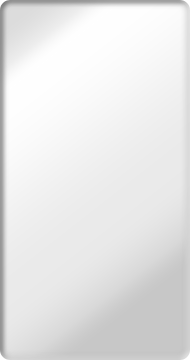
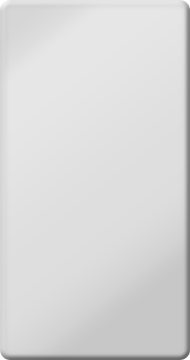
improved pedal knob ui

Changed region(s): [[0.0, 0.0, 1.0, 1.0]]

diff --git a/src/pedals/ui.rs b/src/pedals/ui.rs
@@ -56,16 +56,27 @@ pub fn pedal_knob(ui: &mut egui::Ui, name: &str, parameter: &PedalParameter, at:
         .layout(egui::Layout::top_down(egui::Align::Center))
         .sense(egui::Sense::click_and_drag()),
     |ui| {
-            let knob_im = ui.add(egui::Image::new(egui::include_image!("images/pedal_knob.png"))
-                .rotate(knob_rotate, Vec2::splat(0.5))
-                .max_width(size_px)
-                .sense(egui::Sense::click_and_drag())
+            let mut main_knob_im_ui = ui.new_child(
+                egui::UiBuilder::new()
+                    .max_rect(ui.available_rect_before_wrap())
+                    .layout(egui::Layout::top_down(egui::Align::Center))
             );
 
-            if knob_im.dragged() {
+            main_knob_im_ui.add(egui::Image::new(egui::include_image!("images/pedal_knob_blender_base.png"))
+                .rotate(knob_rotate, Vec2::splat(0.5))
+                .max_width(size_px)
+            );
+
+            let knob_im_shine_overlay = ui.add(egui::Image::new(egui::include_image!("images/pedal_knob_blender_shine.png"))
+                .max_width(size_px)
+                .sense(egui::Sense::click_and_drag())
+                .tint(Color32::from_white_alpha(100))
+            );
+
+            if knob_im_shine_overlay.dragged() {
                 let current_y = ui.input(|i| i.pointer.interact_pos().expect("Failed to get cursor location")).y;
 
-                let (init_y, init_value) = if knob_im.drag_started() {
+                let (init_y, init_value) = if knob_im_shine_overlay.drag_started() {
                     // Store the initial y position and value of the drag
                     ui.ctx().memory_mut(|m| {
                         m.data.insert_temp(Id::new("knob_drag_init_y"), (current_y, value));
@@ -86,7 +97,7 @@ pub fn pedal_knob(ui: &mut egui::Ui, name: &str, parameter: &PedalParameter, at:
                 }
             }
 
-            if knob_im.hovered() {
+            if knob_im_shine_overlay.hovered() {
                 ui.ctx().output_mut(|o| o.cursor_icon = egui::CursorIcon::ResizeVertical);
             }
 
